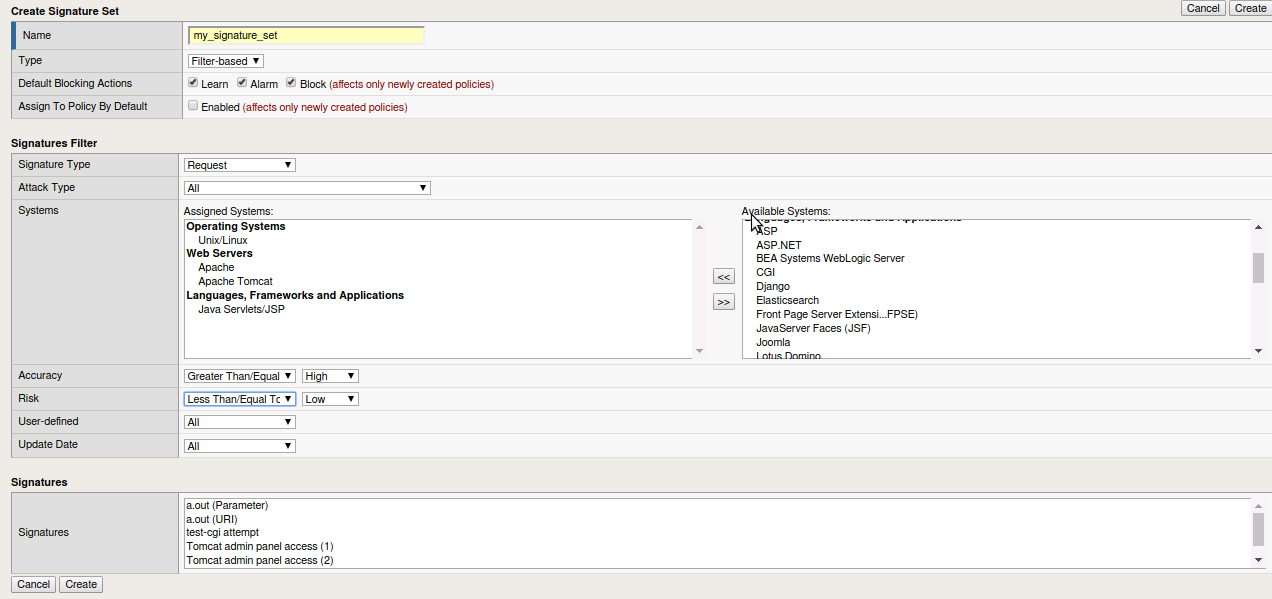
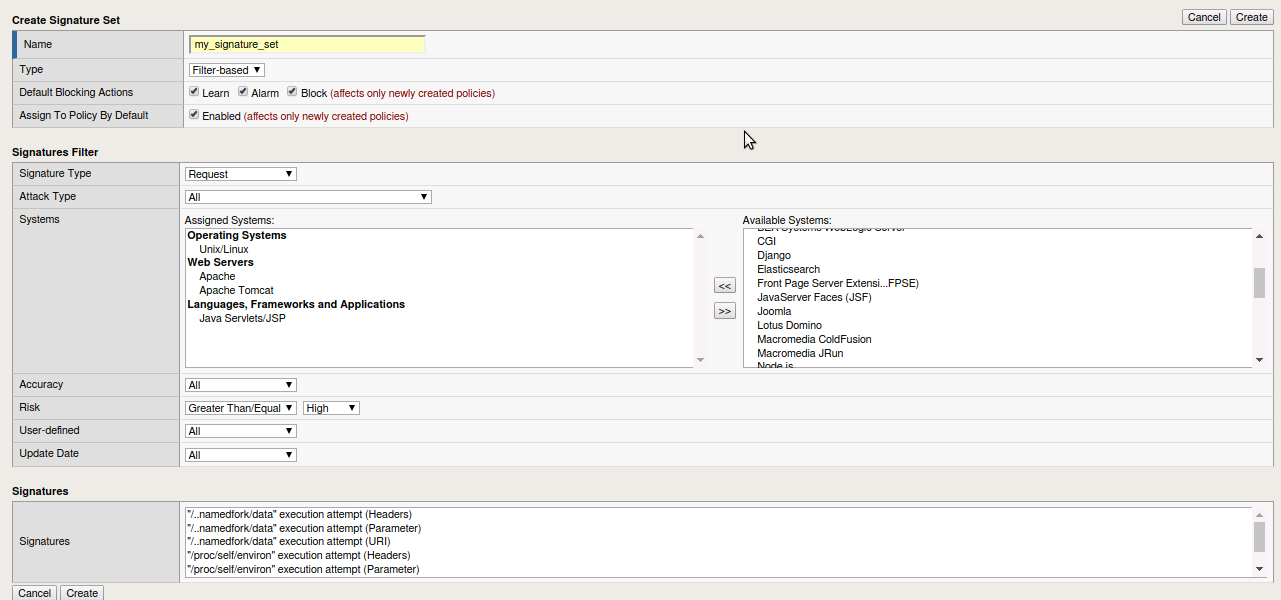
signature set

diff --git a/docs/module3/lab3/lab3.rst b/docs/module3/lab3/lab3.rst
@@ -56,8 +56,8 @@ Fill out the following -
   - Signature Type -  ``Request``
   - Attack Type -  ``All``
   - Systems -  ``Unix/Linux, Apache, Apache Tomcat, Java Servlets/JSP`` Move to the right
-  - Accuracy -  ``Equals High``
-  - Risk - ``Equals Low``
+  - Accuracy -  ``All``
+  - Risk - ``Greater Than Equal To High``
   - User-defined -  ``All``
   - Update Date -  ``All``
 
@@ -72,3 +72,7 @@ Fill out the following -
 .. image:: images/image7_3_3.png
 
 6.  Click Save and Apply policy
+
+7.  Using ZAP attack the application again and examine the event logs.
+
+.. image:: images/image8_3_3.png
